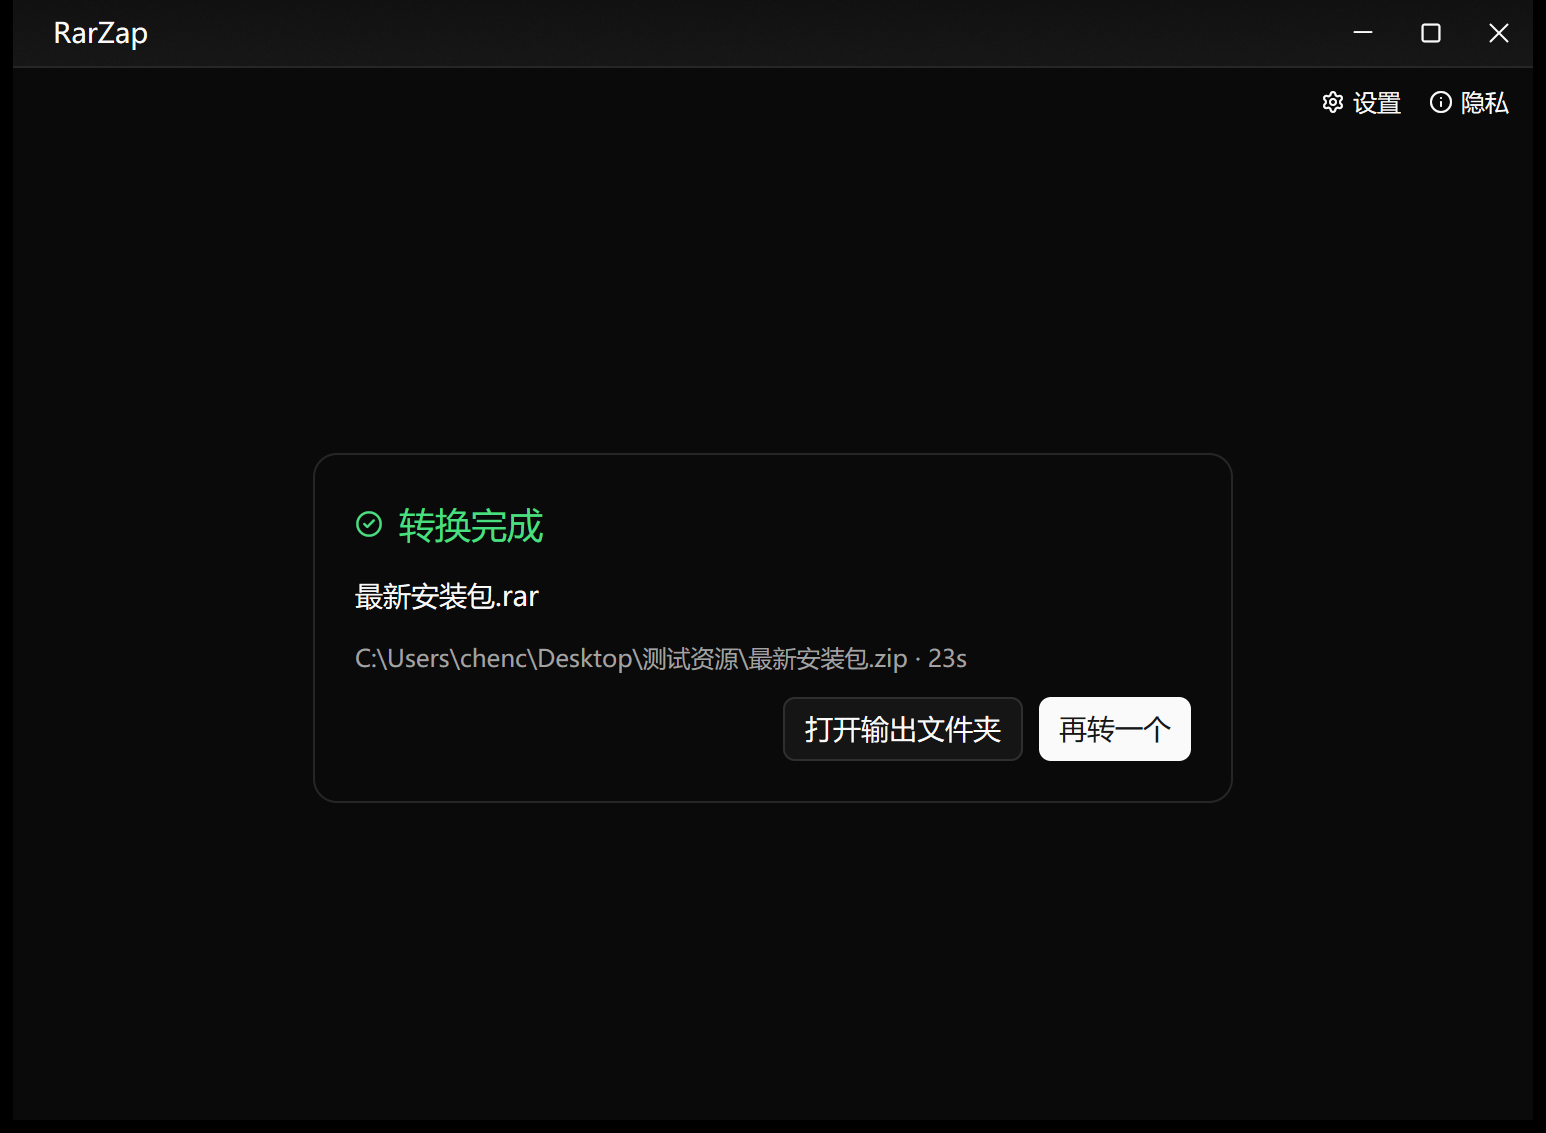
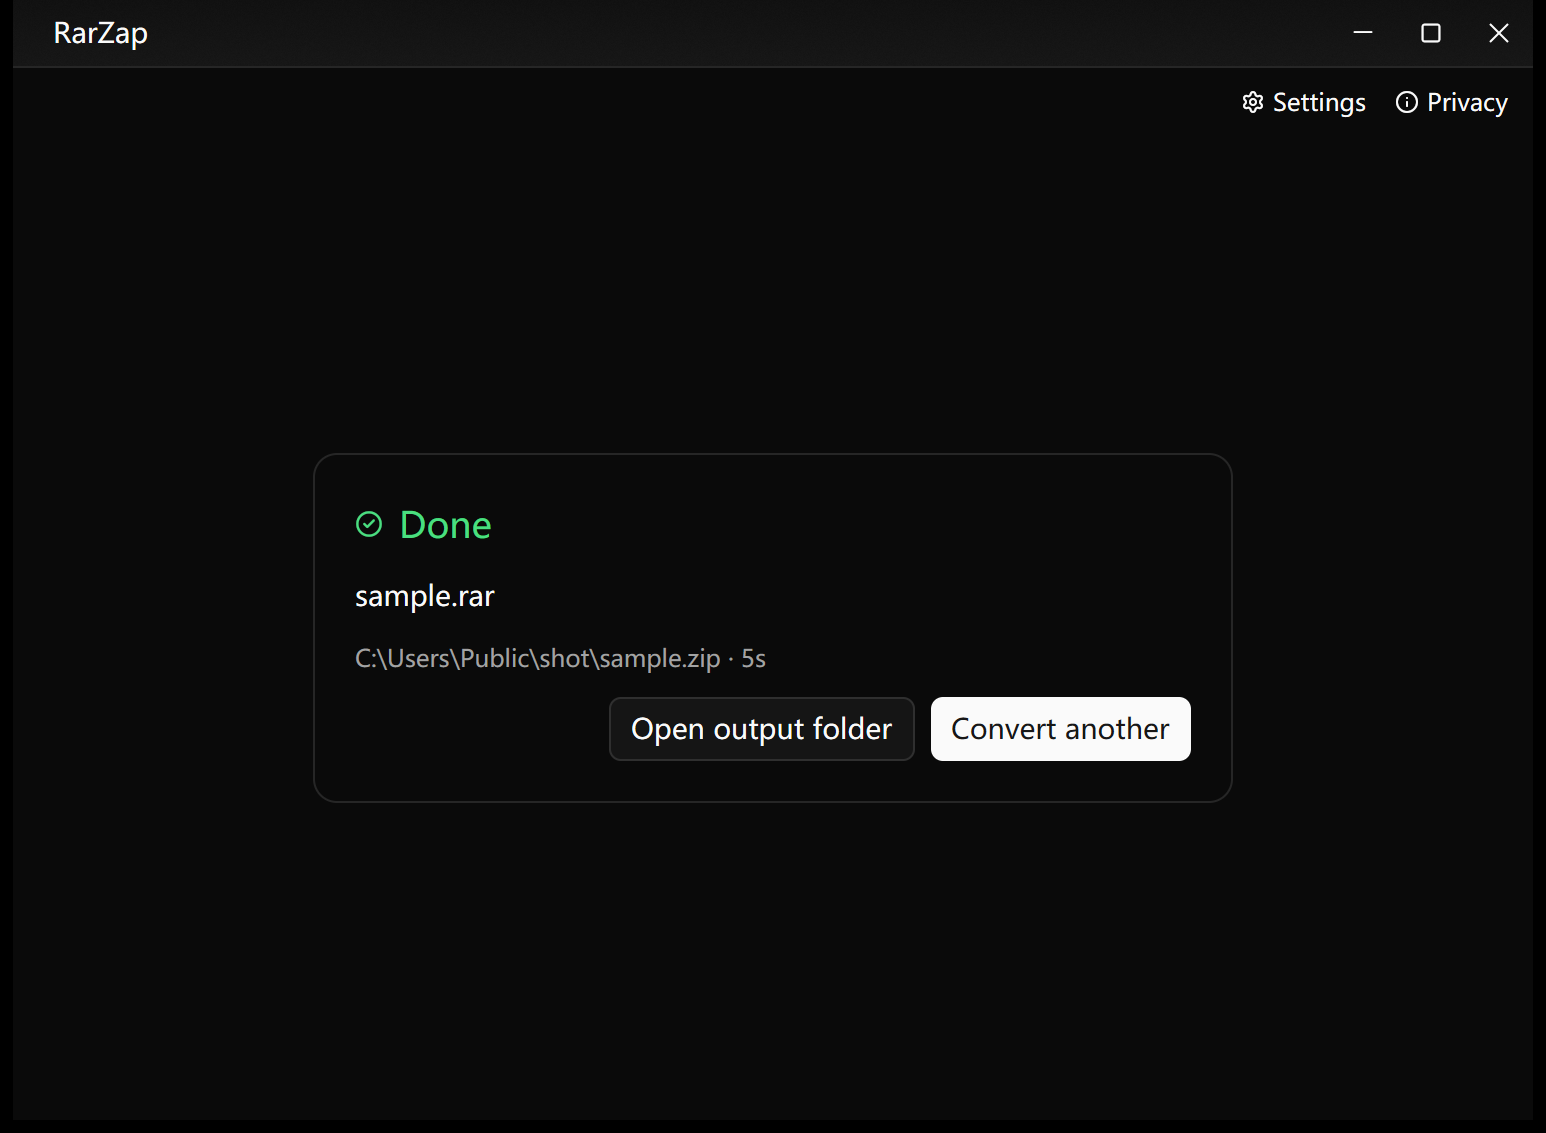
README: English screenshots, official site link, drop store link and proxy notes

Changed region(s): [[0.2173, 0.4325, 0.7762, 0.6796], [0.8072, 0.0618, 0.9625, 0.1236]]

diff --git a/README.md b/README.md
@@ -8,15 +8,13 @@
 [![License: MIT](https://img.shields.io/badge/License-MIT-blue.svg)](LICENSE-MIT)
 [![Platform](https://img.shields.io/badge/platform-Windows%20%7C%20macOS%20%7C%20Linux-lightgrey)]()
 
-English | [简体中文](README.zh-CN.md) *(TODO)*
-
-[Official site](https://rarzap.app) · [Microsoft Store](https://apps.microsoft.com/detail/rarzap) *(commercial batch edition)* · [Releases](https://github.com/indmak/RarZap/releases) · [Report a bug](https://github.com/indmak/RarZap/issues)
+[Official site](https://www.indmak.com/products/rarzap) · [Releases](https://github.com/indmak/RarZap/releases) · [Report a bug](https://github.com/indmak/RarZap/issues)
 
 </div>
 
 ![RarZap empty state](assets/screenshots/main-empty.png)
 
-> Screenshot: real app window (empty state, auto-matched system language).
+> Screenshot: real app window (empty state, English).
 
 | Converting | Done | Settings | Privacy |
 |---|---|---|---|
@@ -96,11 +94,6 @@ cargo build --release --locked
 cargo test --locked
 ```
 
-> **No network?** Route through the local proxy first (PowerShell):
-> ```powershell
-> $env:HTTP_PROXY="http://127.0.0.1:3128"; $env:HTTPS_PROXY="http://127.0.0.1:3128"
-> ```
-
 Regenerate icons from the single hand-drawn source (`docs-zh/logo-rar.png`):
 
 ```bash
@@ -146,7 +139,7 @@ src/
   free/     Free feature: single-file plan/run service
   ui/       Free UI: Empty / Working / Done (GPUI Kit)
   i18n.rs   8-locale setup (rust-i18n, compiled-in YAML)
-plugins/    Commercial batch plugin — LOCAL ONLY, git-ignored (see plugins/README.md)
+plugins/    Commercial batch plugin — LOCAL ONLY, git-ignored (whole directory)
 packaging/  Inno Setup (.iss) · macOS (.plist + make-app.sh) · Debian (.deb builder)
 ```
 
